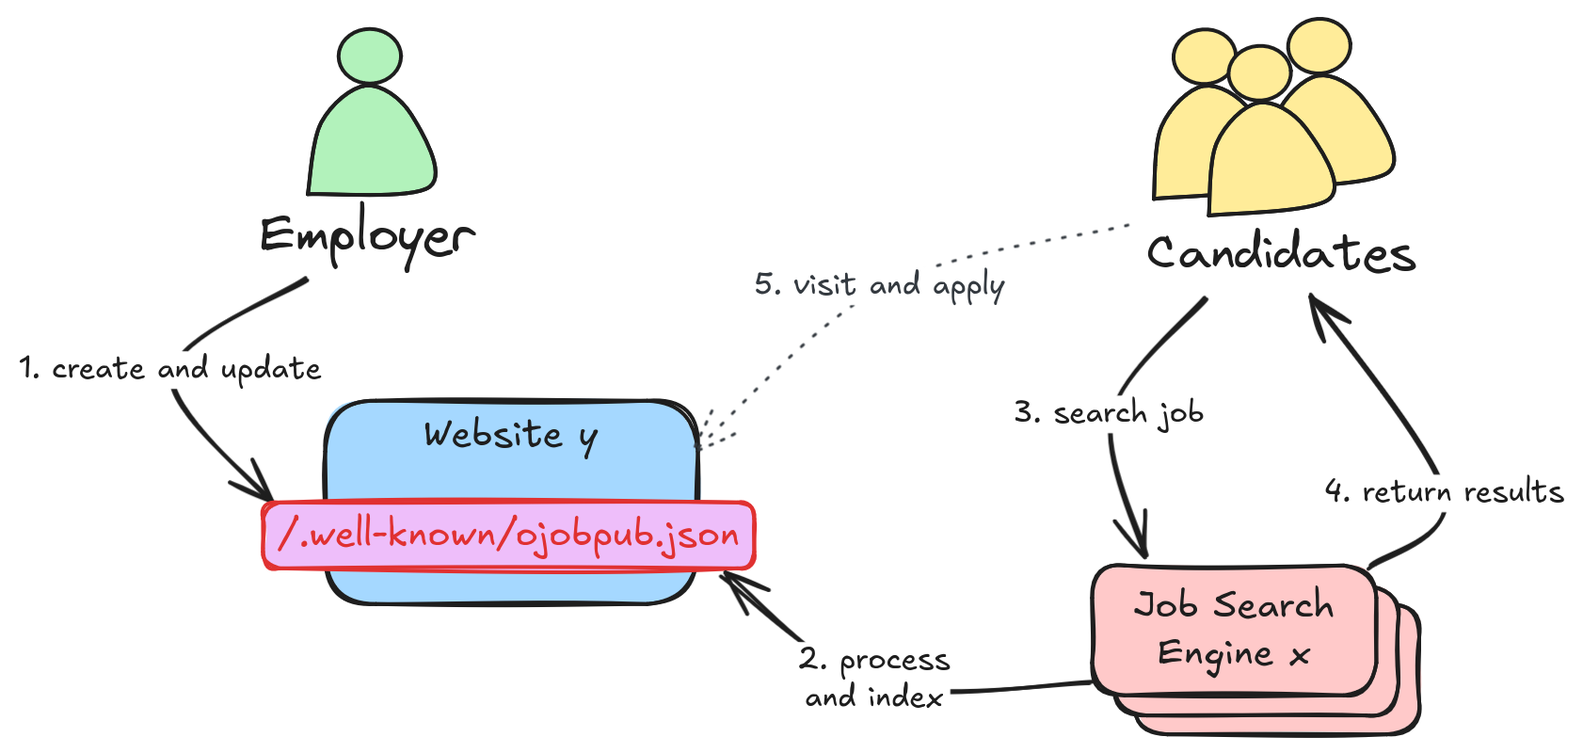
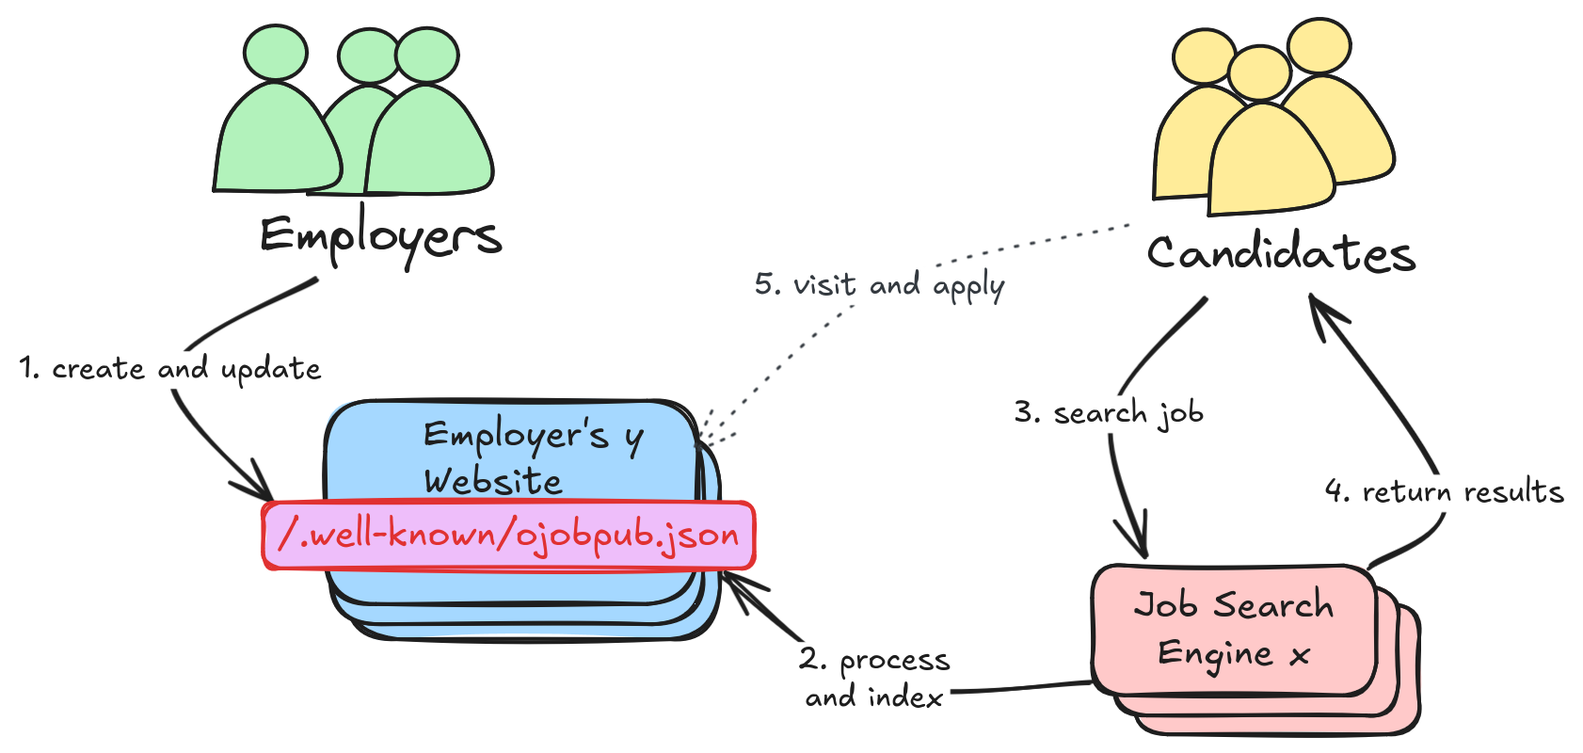
deploy: 2ba3992a190272406d6f7cc4e5d4323d97348211

diff --git a/index.html b/index.html
@@ -1,1 +1,1 @@
-<!doctype html><html lang=en class=no-js> <head><meta charset=utf-8><meta name=viewport content="width=device-width,initial-scale=1"><link href=why/ rel=next><link rel=icon href=assets/images/favicon.png><meta name=generator content="mkdocs-1.6.1, mkdocs-material-9.6.18"><title>oJobPub - Open Job Publishing Initiative</title><link rel=stylesheet href=assets/stylesheets/main.7e37652d.min.css><link rel=stylesheet href=assets/stylesheets/palette.06af60db.min.css><link rel=stylesheet href=stylesheets/extra.css><script>__md_scope=new URL(".",location),__md_hash=e=>[...e].reduce(((e,_)=>(e<<5)-e+_.charCodeAt(0)),0),__md_get=(e,_=localStorage,t=__md_scope)=>JSON.parse(_.getItem(t.pathname+"."+e)),__md_set=(e,_,t=localStorage,a=__md_scope)=>{try{t.setItem(a.pathname+"."+e,JSON.stringify(_))}catch(e){}}</script></head> <body dir=ltr data-md-color-scheme=default data-md-color-primary=indigo data-md-color-accent=indigo> <input class=md-toggle data-md-toggle=drawer type=checkbox id=__drawer autocomplete=off> <input class=md-toggle data-md-toggle=search type=checkbox id=__search autocomplete=off> <label class=md-overlay for=__drawer></label> <div data-md-component=skip> <a href=#about-ojobpub class=md-skip> Skip to content </a> </div> <div data-md-component=announce> </div> <header class=md-header data-md-component=header> <nav class="md-header__inner md-grid" aria-label=Header> <a href=. title="oJobPub - Open Job Publishing Initiative" class="md-header__button md-logo" aria-label="oJobPub - Open Job Publishing Initiative" data-md-component=logo> <img src=static/logo.png alt=logo> </a> <label class="md-header__button md-icon" for=__drawer> <svg xmlns=http://www.w3.org/2000/svg viewbox="0 0 24 24"><path d="M3 6h18v2H3zm0 5h18v2H3zm0 5h18v2H3z"/></svg> </label> <div class=md-header__title data-md-component=header-title> <div class=md-header__ellipsis> <div class=md-header__topic> <span class=md-ellipsis> oJobPub - Open Job Publishing Initiative </span> </div> <div class=md-header__topic data-md-component=header-topic> <span class=md-ellipsis> Intro </span> </div> </div> </div> <form class=md-header__option data-md-component=palette> <input class=md-option data-md-color-media=(prefers-color-scheme) data-md-color-scheme=default data-md-color-primary=indigo data-md-color-accent=indigo aria-label="Switch to light mode" type=radio name=__palette id=__palette_0> <label class="md-header__button md-icon" title="Switch to light mode" for=__palette_1 hidden> <svg xmlns=http://www.w3.org/2000/svg viewbox="0 0 24 24"><path d="m14.3 16-.7-2h-3.2l-.7 2H7.8L11 7h2l3.2 9zM20 8.69V4h-4.69L12 .69 8.69 4H4v4.69L.69 12 4 15.31V20h4.69L12 23.31 15.31 20H20v-4.69L23.31 12zm-9.15 3.96h2.3L12 9z"/></svg> </label> <input class=md-option data-md-color-media="(prefers-color-scheme: light)" data-md-color-scheme=default data-md-color-primary=white data-md-color-accent=indigo aria-label="Switch to dark mode" type=radio name=__palette id=__palette_1> <label class="md-header__button md-icon" title="Switch to dark mode" for=__palette_2 hidden> <svg xmlns=http://www.w3.org/2000/svg viewbox="0 0 24 24"><path d="M12 8a4 4 0 0 0-4 4 4 4 0 0 0 4 4 4 4 0 0 0 4-4 4 4 0 0 0-4-4m0 10a6 6 0 0 1-6-6 6 6 0 0 1 6-6 6 6 0 0 1 6 6 6 6 0 0 1-6 6m8-9.31V4h-4.69L12 .69 8.69 4H4v4.69L.69 12 4 15.31V20h4.69L12 23.31 15.31 20H20v-4.69L23.31 12z"/></svg> </label> <input class=md-option data-md-color-media="(prefers-color-scheme: dark)" data-md-color-scheme=slate data-md-color-primary=black data-md-color-accent=indigo aria-label="Switch to light mode" type=radio name=__palette id=__palette_2> <label class="md-header__button md-icon" title="Switch to light mode" for=__palette_0 hidden> <svg xmlns=http://www.w3.org/2000/svg viewbox="0 0 24 24"><path d="M12 18c-.89 0-1.74-.2-2.5-.55C11.56 16.5 13 14.42 13 12s-1.44-4.5-3.5-5.45C10.26 6.2 11.11 6 12 6a6 6 0 0 1 6 6 6 6 0 0 1-6 6m8-9.31V4h-4.69L12 .69 8.69 4H4v4.69L.69 12 4 15.31V20h4.69L12 23.31 15.31 20H20v-4.69L23.31 12z"/></svg> </label> </form> <script>var palette=__md_get("__palette");if(palette&&palette.color){if("(prefers-color-scheme)"===palette.color.media){var media=matchMedia("(prefers-color-scheme: light)"),input=document.querySelector(media.matches?"[data-md-color-media='(prefers-color-scheme: light)']":"[data-md-color-media='(prefers-color-scheme: dark)']");palette.color.media=input.getAttribute("data-md-color-media"),palette.color.scheme=input.getAttribute("data-md-color-scheme"),palette.color.primary=input.getAttribute("data-md-color-primary"),palette.color.accent=input.getAttribute("data-md-color-accent")}for(var[key,value]of Object.entries(palette.color))document.body.setAttribute("data-md-color-"+key,value)}</script> <label class="md-header__button md-icon" for=__search> <svg xmlns=http://www.w3.org/2000/svg viewbox="0 0 24 24"><path d="M9.5 3A6.5 6.5 0 0 1 16 9.5c0 1.61-.59 3.09-1.56 4.23l.27.27h.79l5 5-1.5 1.5-5-5v-.79l-.27-.27A6.52 6.52 0 0 1 9.5 16 6.5 6.5 0 0 1 3 9.5 6.5 6.5 0 0 1 9.5 3m0 2C7 5 5 7 5 9.5S7 14 9.5 14 14 12 14 9.5 12 5 9.5 5"/></svg> </label> <div class=md-search data-md-component=search role=dialog> <label class=md-search__overlay for=__search></label> <div class=md-search__inner role=search> <form class=md-search__form name=search> <input type=text class=md-search__input name=query aria-label=Search placeholder=Search autocapitalize=off autocorrect=off autocomplete=off spellcheck=false data-md-component=search-query required> <label class="md-search__icon md-icon" for=__search> <svg xmlns=http://www.w3.org/2000/svg viewbox="0 0 24 24"><path d="M9.5 3A6.5 6.5 0 0 1 16 9.5c0 1.61-.59 3.09-1.56 4.23l.27.27h.79l5 5-1.5 1.5-5-5v-.79l-.27-.27A6.52 6.52 0 0 1 9.5 16 6.5 6.5 0 0 1 3 9.5 6.5 6.5 0 0 1 9.5 3m0 2C7 5 5 7 5 9.5S7 14 9.5 14 14 12 14 9.5 12 5 9.5 5"/></svg> <svg xmlns=http://www.w3.org/2000/svg viewbox="0 0 24 24"><path d="M20 11v2H8l5.5 5.5-1.42 1.42L4.16 12l7.92-7.92L13.5 5.5 8 11z"/></svg> </label> <nav class=md-search__options aria-label=Search> <button type=reset class="md-search__icon md-icon" title=Clear aria-label=Clear tabindex=-1> <svg xmlns=http://www.w3.org/2000/svg viewbox="0 0 24 24"><path d="M19 6.41 17.59 5 12 10.59 6.41 5 5 6.41 10.59 12 5 17.59 6.41 19 12 13.41 17.59 19 19 17.59 13.41 12z"/></svg> </button> </nav> </form> <div class=md-search__output> <div class=md-search__scrollwrap tabindex=0 data-md-scrollfix> <div class=md-search-result data-md-component=search-result> <div class=md-search-result__meta> Initializing search </div> <ol class=md-search-result__list role=presentation></ol> </div> </div> </div> </div> </div> </nav> </header> <div class=md-container data-md-component=container> <nav class=md-tabs aria-label=Tabs data-md-component=tabs> <div class=md-grid> <ul class=md-tabs__list> <li class="md-tabs__item md-tabs__item--active"> <a href=. class=md-tabs__link> Intro </a> </li> <li class=md-tabs__item> <a href=why/ class=md-tabs__link> Why </a> </li> <li class=md-tabs__item> <a href=solution/ class=md-tabs__link> Solution </a> </li> <li class=md-tabs__item> <a href=how/ class=md-tabs__link> How </a> </li> <li class=md-tabs__item> <a href=faq/ class=md-tabs__link> FAQ </a> </li> <li class=md-tabs__item> <a href=project/ class=md-tabs__link> About </a> </li> </ul> </div> </nav> <main class=md-main data-md-component=main> <div class="md-main__inner md-grid"> <div class="md-sidebar md-sidebar--primary" data-md-component=sidebar data-md-type=navigation> <div class=md-sidebar__scrollwrap> <div class=md-sidebar__inner> <nav class="md-nav md-nav--primary md-nav--lifted" aria-label=Navigation data-md-level=0> <label class=md-nav__title for=__drawer> <a href=. title="oJobPub - Open Job Publishing Initiative" class="md-nav__button md-logo" aria-label="oJobPub - Open Job Publishing Initiative" data-md-component=logo> <img src=static/logo.png alt=logo> </a> oJobPub - Open Job Publishing Initiative </label> <ul class=md-nav__list data-md-scrollfix> <li class="md-nav__item md-nav__item--active"> <input class="md-nav__toggle md-toggle" type=checkbox id=__toc> <label class="md-nav__link md-nav__link--active" for=__toc> <span class=md-ellipsis> Intro </span> <span class="md-nav__icon md-icon"></span> </label> <a href=. class="md-nav__link md-nav__link--active"> <span class=md-ellipsis> Intro </span> </a> <nav class="md-nav md-nav--secondary" aria-label="Table of contents"> <label class=md-nav__title for=__toc> <span class="md-nav__icon md-icon"></span> Table of contents </label> <ul class=md-nav__list data-md-component=toc data-md-scrollfix> <li class=md-nav__item> <a href=#benfits class=md-nav__link> <span class=md-ellipsis> Benfits </span> </a> </li> </ul> </nav> </li> <li class=md-nav__item> <a href=why/ class=md-nav__link> <span class=md-ellipsis> Why </span> </a> </li> <li class=md-nav__item> <a href=solution/ class=md-nav__link> <span class=md-ellipsis> Solution </span> </a> </li> <li class="md-nav__item md-nav__item--nested"> <input class="md-nav__toggle md-toggle " type=checkbox id=__nav_4> <label class=md-nav__link for=__nav_4 id=__nav_4_label tabindex=0> <span class=md-ellipsis> How </span> <span class="md-nav__icon md-icon"></span> </label> <nav class=md-nav data-md-level=1 aria-labelledby=__nav_4_label aria-expanded=false> <label class=md-nav__title for=__nav_4> <span class="md-nav__icon md-icon"></span> How </label> <ul class=md-nav__list data-md-scrollfix> <li class=md-nav__item> <a href=how/ class=md-nav__link> <span class=md-ellipsis> Overview </span> </a> </li> <li class=md-nav__item> <a href=how/ojobpub-format/ class=md-nav__link> <span class=md-ellipsis> ojobpub.json </span> </a> </li> </ul> </nav> </li> <li class=md-nav__item> <a href=faq/ class=md-nav__link> <span class=md-ellipsis> FAQ </span> </a> </li> <li class=md-nav__item> <a href=project/ class=md-nav__link> <span class=md-ellipsis> About </span> </a> </li> </ul> </nav> </div> </div> </div> <div class="md-sidebar md-sidebar--secondary" data-md-component=sidebar data-md-type=toc> <div class=md-sidebar__scrollwrap> <div class=md-sidebar__inner> <nav class="md-nav md-nav--secondary" aria-label="Table of contents"> <label class=md-nav__title for=__toc> <span class="md-nav__icon md-icon"></span> Table of contents </label> <ul class=md-nav__list data-md-component=toc data-md-scrollfix> <li class=md-nav__item> <a href=#benfits class=md-nav__link> <span class=md-ellipsis> Benfits </span> </a> </li> </ul> </nav> </div> </div> </div> <div class=md-content data-md-component=content> <article class="md-content__inner md-typeset"> <h1 id=about-ojobpub>About oJobPub</h1> <p>oJobPub is an initiative with the goal, to create a free, simlified, optimized and efficient process to publish and collect open job positions and vacancies.</p> <h2 id=benfits>Benfits</h2> <ul class=task-list> <li class=task-list-item><label class=task-list-control><input type=checkbox disabled checked><span class=task-list-indicator></span></label> <strong>Efficient</strong>: Employers manage open job positions in one place.</li> <li class=task-list-item><label class=task-list-control><input type=checkbox disabled checked><span class=task-list-indicator></span></label> <strong>Optimized</strong>: Search engines know where to look and get structured data.</li> <li class=task-list-item><label class=task-list-control><input type=checkbox disabled checked><span class=task-list-indicator></span></label> <strong>Reliable</strong>: Candidates find current job openings more reliable.</li> <li class=task-list-item><label class=task-list-control><input type=checkbox disabled checked><span class=task-list-indicator></span></label> <strong>In Control</strong>: Employers keep control of their data and application process.</li> <li class=task-list-item><label class=task-list-control><input type=checkbox disabled checked><span class=task-list-indicator></span></label> <strong>No additional costs</strong> beyond what employers already payed for domain and web hosting.</li> </ul> </article> </div> <script>var target=document.getElementById(location.hash.slice(1));target&&target.name&&(target.checked=target.name.startsWith("__tabbed_"))</script> </div> </main> <footer class=md-footer> <div class="md-footer-meta md-typeset"> <div class="md-footer-meta__inner md-grid"> <div class=md-copyright> <div class=md-copyright__highlight> oJobPub.org © 2025 </div> Made with <a href=https://squidfunk.github.io/mkdocs-material/ target=_blank rel=noopener> Material for MkDocs </a> </div> <div class=md-social> <a href=https://github.com/ojobpub/docs target=_blank rel=noopener title=github.com class=md-social__link> <svg xmlns=http://www.w3.org/2000/svg viewbox="0 0 512 512"><!-- Font Awesome Free 7.0.0 by @fontawesome - https://fontawesome.com License - https://fontawesome.com/license/free (Icons: CC BY 4.0, Fonts: SIL OFL 1.1, Code: MIT License) Copyright 2025 Fonticons, Inc.--><path fill=currentColor d="M173.9 397.4c0 2-2.3 3.6-5.2 3.6-3.3.3-5.6-1.3-5.6-3.6 0-2 2.3-3.6 5.2-3.6 3-.3 5.6 1.3 5.6 3.6m-31.1-4.5c-.7 2 1.3 4.3 4.3 4.9 2.6 1 5.6 0 6.2-2s-1.3-4.3-4.3-5.2c-2.6-.7-5.5.3-6.2 2.3m44.2-1.7c-2.9.7-4.9 2.6-4.6 4.9.3 2 2.9 3.3 5.9 2.6 2.9-.7 4.9-2.6 4.6-4.6-.3-1.9-3-3.2-5.9-2.9M252.8 8C114.1 8 8 113.3 8 252c0 110.9 69.8 205.8 169.5 239.2 12.8 2.3 17.3-5.6 17.3-12.1 0-6.2-.3-40.4-.3-61.4 0 0-70 15-84.7-29.8 0 0-11.4-29.1-27.8-36.6 0 0-22.9-15.7 1.6-15.4 0 0 24.9 2 38.6 25.8 21.9 38.6 58.6 27.5 72.9 20.9 2.3-16 8.8-27.1 16-33.7-55.9-6.2-112.3-14.3-112.3-110.5 0-27.5 7.6-41.3 23.6-58.9-2.6-6.5-11.1-33.3 2.6-67.9 20.9-6.5 69 27 69 27 20-5.6 41.5-8.5 62.8-8.5s42.8 2.9 62.8 8.5c0 0 48.1-33.6 69-27 13.7 34.7 5.2 61.4 2.6 67.9 16 17.7 25.8 31.5 25.8 58.9 0 96.5-58.9 104.2-114.8 110.5 9.2 7.9 17 22.9 17 46.4 0 33.7-.3 75.4-.3 83.6 0 6.5 4.6 14.4 17.3 12.1C436.2 457.8 504 362.9 504 252 504 113.3 391.5 8 252.8 8M105.2 352.9c-1.3 1-1 3.3.7 5.2 1.6 1.6 3.9 2.3 5.2 1 1.3-1 1-3.3-.7-5.2-1.6-1.6-3.9-2.3-5.2-1m-10.8-8.1c-.7 1.3.3 2.9 2.3 3.9 1.6 1 3.6.7 4.3-.7.7-1.3-.3-2.9-2.3-3.9-2-.6-3.6-.3-4.3.7m32.4 35.6c-1.6 1.3-1 4.3 1.3 6.2 2.3 2.3 5.2 2.6 6.5 1 1.3-1.3.7-4.3-1.3-6.2-2.2-2.3-5.2-2.6-6.5-1m-11.4-14.7c-1.6 1-1.6 3.6 0 5.9s4.3 3.3 5.6 2.3c1.6-1.3 1.6-3.9 0-6.2-1.4-2.3-4-3.3-5.6-2"/></svg> </a> </div> </div> </div> </footer> </div> <div class=md-dialog data-md-component=dialog> <div class="md-dialog__inner md-typeset"></div> </div> <script id=__config type=application/json>{"base": ".", "features": ["navigation.tabs"], "search": "assets/javascripts/workers/search.973d3a69.min.js", "tags": null, "translations": {"clipboard.copied": "Copied to clipboard", "clipboard.copy": "Copy to clipboard", "search.result.more.one": "1 more on this page", "search.result.more.other": "# more on this page", "search.result.none": "No matching documents", "search.result.one": "1 matching document", "search.result.other": "# matching documents", "search.result.placeholder": "Type to start searching", "search.result.term.missing": "Missing", "select.version": "Select version"}, "version": null}</script> <script src=assets/javascripts/bundle.92b07e13.min.js></script> </body> </html>
+<!doctype html><html lang=en class=no-js> <head><meta charset=utf-8><meta name=viewport content="width=device-width,initial-scale=1"><link href=why/ rel=next><link rel=icon href=assets/images/favicon.png><meta name=generator content="mkdocs-1.6.1, mkdocs-material-9.6.18"><title>oJobPub - Open Job Publishing Initiative</title><link rel=stylesheet href=assets/stylesheets/main.7e37652d.min.css><link rel=stylesheet href=assets/stylesheets/palette.06af60db.min.css><link rel=stylesheet href=stylesheets/extra.css><script>__md_scope=new URL(".",location),__md_hash=e=>[...e].reduce(((e,_)=>(e<<5)-e+_.charCodeAt(0)),0),__md_get=(e,_=localStorage,t=__md_scope)=>JSON.parse(_.getItem(t.pathname+"."+e)),__md_set=(e,_,t=localStorage,a=__md_scope)=>{try{t.setItem(a.pathname+"."+e,JSON.stringify(_))}catch(e){}}</script></head> <body dir=ltr data-md-color-scheme=default data-md-color-primary=indigo data-md-color-accent=indigo> <input class=md-toggle data-md-toggle=drawer type=checkbox id=__drawer autocomplete=off> <input class=md-toggle data-md-toggle=search type=checkbox id=__search autocomplete=off> <label class=md-overlay for=__drawer></label> <div data-md-component=skip> <a href=#about-ojobpub class=md-skip> Skip to content </a> </div> <div data-md-component=announce> </div> <header class=md-header data-md-component=header> <nav class="md-header__inner md-grid" aria-label=Header> <a href=. title="oJobPub - Open Job Publishing Initiative" class="md-header__button md-logo" aria-label="oJobPub - Open Job Publishing Initiative" data-md-component=logo> <img src=static/logo.png alt=logo> </a> <label class="md-header__button md-icon" for=__drawer> <svg xmlns=http://www.w3.org/2000/svg viewbox="0 0 24 24"><path d="M3 6h18v2H3zm0 5h18v2H3zm0 5h18v2H3z"/></svg> </label> <div class=md-header__title data-md-component=header-title> <div class=md-header__ellipsis> <div class=md-header__topic> <span class=md-ellipsis> oJobPub - Open Job Publishing Initiative </span> </div> <div class=md-header__topic data-md-component=header-topic> <span class=md-ellipsis> Intro </span> </div> </div> </div> <form class=md-header__option data-md-component=palette> <input class=md-option data-md-color-media=(prefers-color-scheme) data-md-color-scheme=default data-md-color-primary=indigo data-md-color-accent=indigo aria-label="Switch to light mode" type=radio name=__palette id=__palette_0> <label class="md-header__button md-icon" title="Switch to light mode" for=__palette_1 hidden> <svg xmlns=http://www.w3.org/2000/svg viewbox="0 0 24 24"><path d="m14.3 16-.7-2h-3.2l-.7 2H7.8L11 7h2l3.2 9zM20 8.69V4h-4.69L12 .69 8.69 4H4v4.69L.69 12 4 15.31V20h4.69L12 23.31 15.31 20H20v-4.69L23.31 12zm-9.15 3.96h2.3L12 9z"/></svg> </label> <input class=md-option data-md-color-media="(prefers-color-scheme: light)" data-md-color-scheme=default data-md-color-primary=white data-md-color-accent=indigo aria-label="Switch to dark mode" type=radio name=__palette id=__palette_1> <label class="md-header__button md-icon" title="Switch to dark mode" for=__palette_2 hidden> <svg xmlns=http://www.w3.org/2000/svg viewbox="0 0 24 24"><path d="M12 8a4 4 0 0 0-4 4 4 4 0 0 0 4 4 4 4 0 0 0 4-4 4 4 0 0 0-4-4m0 10a6 6 0 0 1-6-6 6 6 0 0 1 6-6 6 6 0 0 1 6 6 6 6 0 0 1-6 6m8-9.31V4h-4.69L12 .69 8.69 4H4v4.69L.69 12 4 15.31V20h4.69L12 23.31 15.31 20H20v-4.69L23.31 12z"/></svg> </label> <input class=md-option data-md-color-media="(prefers-color-scheme: dark)" data-md-color-scheme=slate data-md-color-primary=black data-md-color-accent=indigo aria-label="Switch to light mode" type=radio name=__palette id=__palette_2> <label class="md-header__button md-icon" title="Switch to light mode" for=__palette_0 hidden> <svg xmlns=http://www.w3.org/2000/svg viewbox="0 0 24 24"><path d="M12 18c-.89 0-1.74-.2-2.5-.55C11.56 16.5 13 14.42 13 12s-1.44-4.5-3.5-5.45C10.26 6.2 11.11 6 12 6a6 6 0 0 1 6 6 6 6 0 0 1-6 6m8-9.31V4h-4.69L12 .69 8.69 4H4v4.69L.69 12 4 15.31V20h4.69L12 23.31 15.31 20H20v-4.69L23.31 12z"/></svg> </label> </form> <script>var palette=__md_get("__palette");if(palette&&palette.color){if("(prefers-color-scheme)"===palette.color.media){var media=matchMedia("(prefers-color-scheme: light)"),input=document.querySelector(media.matches?"[data-md-color-media='(prefers-color-scheme: light)']":"[data-md-color-media='(prefers-color-scheme: dark)']");palette.color.media=input.getAttribute("data-md-color-media"),palette.color.scheme=input.getAttribute("data-md-color-scheme"),palette.color.primary=input.getAttribute("data-md-color-primary"),palette.color.accent=input.getAttribute("data-md-color-accent")}for(var[key,value]of Object.entries(palette.color))document.body.setAttribute("data-md-color-"+key,value)}</script> <label class="md-header__button md-icon" for=__search> <svg xmlns=http://www.w3.org/2000/svg viewbox="0 0 24 24"><path d="M9.5 3A6.5 6.5 0 0 1 16 9.5c0 1.61-.59 3.09-1.56 4.23l.27.27h.79l5 5-1.5 1.5-5-5v-.79l-.27-.27A6.52 6.52 0 0 1 9.5 16 6.5 6.5 0 0 1 3 9.5 6.5 6.5 0 0 1 9.5 3m0 2C7 5 5 7 5 9.5S7 14 9.5 14 14 12 14 9.5 12 5 9.5 5"/></svg> </label> <div class=md-search data-md-component=search role=dialog> <label class=md-search__overlay for=__search></label> <div class=md-search__inner role=search> <form class=md-search__form name=search> <input type=text class=md-search__input name=query aria-label=Search placeholder=Search autocapitalize=off autocorrect=off autocomplete=off spellcheck=false data-md-component=search-query required> <label class="md-search__icon md-icon" for=__search> <svg xmlns=http://www.w3.org/2000/svg viewbox="0 0 24 24"><path d="M9.5 3A6.5 6.5 0 0 1 16 9.5c0 1.61-.59 3.09-1.56 4.23l.27.27h.79l5 5-1.5 1.5-5-5v-.79l-.27-.27A6.52 6.52 0 0 1 9.5 16 6.5 6.5 0 0 1 3 9.5 6.5 6.5 0 0 1 9.5 3m0 2C7 5 5 7 5 9.5S7 14 9.5 14 14 12 14 9.5 12 5 9.5 5"/></svg> <svg xmlns=http://www.w3.org/2000/svg viewbox="0 0 24 24"><path d="M20 11v2H8l5.5 5.5-1.42 1.42L4.16 12l7.92-7.92L13.5 5.5 8 11z"/></svg> </label> <nav class=md-search__options aria-label=Search> <button type=reset class="md-search__icon md-icon" title=Clear aria-label=Clear tabindex=-1> <svg xmlns=http://www.w3.org/2000/svg viewbox="0 0 24 24"><path d="M19 6.41 17.59 5 12 10.59 6.41 5 5 6.41 10.59 12 5 17.59 6.41 19 12 13.41 17.59 19 19 17.59 13.41 12z"/></svg> </button> </nav> </form> <div class=md-search__output> <div class=md-search__scrollwrap tabindex=0 data-md-scrollfix> <div class=md-search-result data-md-component=search-result> <div class=md-search-result__meta> Initializing search </div> <ol class=md-search-result__list role=presentation></ol> </div> </div> </div> </div> </div> </nav> </header> <div class=md-container data-md-component=container> <nav class=md-tabs aria-label=Tabs data-md-component=tabs> <div class=md-grid> <ul class=md-tabs__list> <li class="md-tabs__item md-tabs__item--active"> <a href=. class=md-tabs__link> Intro </a> </li> <li class=md-tabs__item> <a href=why/ class=md-tabs__link> Why </a> </li> <li class=md-tabs__item> <a href=solution/ class=md-tabs__link> Solution </a> </li> <li class=md-tabs__item> <a href=how/ class=md-tabs__link> How </a> </li> <li class=md-tabs__item> <a href=faq/ class=md-tabs__link> FAQ </a> </li> <li class=md-tabs__item> <a href=project/ class=md-tabs__link> About </a> </li> </ul> </div> </nav> <main class=md-main data-md-component=main> <div class="md-main__inner md-grid"> <div class="md-sidebar md-sidebar--primary" data-md-component=sidebar data-md-type=navigation> <div class=md-sidebar__scrollwrap> <div class=md-sidebar__inner> <nav class="md-nav md-nav--primary md-nav--lifted" aria-label=Navigation data-md-level=0> <label class=md-nav__title for=__drawer> <a href=. title="oJobPub - Open Job Publishing Initiative" class="md-nav__button md-logo" aria-label="oJobPub - Open Job Publishing Initiative" data-md-component=logo> <img src=static/logo.png alt=logo> </a> oJobPub - Open Job Publishing Initiative </label> <ul class=md-nav__list data-md-scrollfix> <li class="md-nav__item md-nav__item--active"> <input class="md-nav__toggle md-toggle" type=checkbox id=__toc> <label class="md-nav__link md-nav__link--active" for=__toc> <span class=md-ellipsis> Intro </span> <span class="md-nav__icon md-icon"></span> </label> <a href=. class="md-nav__link md-nav__link--active"> <span class=md-ellipsis> Intro </span> </a> <nav class="md-nav md-nav--secondary" aria-label="Table of contents"> <label class=md-nav__title for=__toc> <span class="md-nav__icon md-icon"></span> Table of contents </label> <ul class=md-nav__list data-md-component=toc data-md-scrollfix> <li class=md-nav__item> <a href=#benfits class=md-nav__link> <span class=md-ellipsis> Benfits </span> </a> </li> <li class=md-nav__item> <a href=#no-goals class=md-nav__link> <span class=md-ellipsis> No Goals </span> </a> </li> </ul> </nav> </li> <li class=md-nav__item> <a href=why/ class=md-nav__link> <span class=md-ellipsis> Why </span> </a> </li> <li class=md-nav__item> <a href=solution/ class=md-nav__link> <span class=md-ellipsis> Solution </span> </a> </li> <li class="md-nav__item md-nav__item--nested"> <input class="md-nav__toggle md-toggle " type=checkbox id=__nav_4> <label class=md-nav__link for=__nav_4 id=__nav_4_label tabindex=0> <span class=md-ellipsis> How </span> <span class="md-nav__icon md-icon"></span> </label> <nav class=md-nav data-md-level=1 aria-labelledby=__nav_4_label aria-expanded=false> <label class=md-nav__title for=__nav_4> <span class="md-nav__icon md-icon"></span> How </label> <ul class=md-nav__list data-md-scrollfix> <li class=md-nav__item> <a href=how/ class=md-nav__link> <span class=md-ellipsis> Overview </span> </a> </li> <li class=md-nav__item> <a href=how/ojobpub-format/ class=md-nav__link> <span class=md-ellipsis> ojobpub.json </span> </a> </li> </ul> </nav> </li> <li class=md-nav__item> <a href=faq/ class=md-nav__link> <span class=md-ellipsis> FAQ </span> </a> </li> <li class=md-nav__item> <a href=project/ class=md-nav__link> <span class=md-ellipsis> About </span> </a> </li> </ul> </nav> </div> </div> </div> <div class="md-sidebar md-sidebar--secondary" data-md-component=sidebar data-md-type=toc> <div class=md-sidebar__scrollwrap> <div class=md-sidebar__inner> <nav class="md-nav md-nav--secondary" aria-label="Table of contents"> <label class=md-nav__title for=__toc> <span class="md-nav__icon md-icon"></span> Table of contents </label> <ul class=md-nav__list data-md-component=toc data-md-scrollfix> <li class=md-nav__item> <a href=#benfits class=md-nav__link> <span class=md-ellipsis> Benfits </span> </a> </li> <li class=md-nav__item> <a href=#no-goals class=md-nav__link> <span class=md-ellipsis> No Goals </span> </a> </li> </ul> </nav> </div> </div> </div> <div class=md-content data-md-component=content> <article class="md-content__inner md-typeset"> <h1 id=about-ojobpub>About oJobPub</h1> <p>oJobPub is an initiative with the goal, to create a free, simlified, optimized and efficient process to publish and collect distributed job positions and vacancies.</p> <p><img alt src=static/nutshell.png></p> <h2 id=benfits>Benfits</h2> <ul class=task-list> <li class=task-list-item><label class=task-list-control><input type=checkbox disabled checked><span class=task-list-indicator></span></label> <strong>Efficient</strong>: Employers manage open job positions on their own websites.</li> <li class=task-list-item><label class=task-list-control><input type=checkbox disabled checked><span class=task-list-indicator></span></label> <strong>Optimized</strong>: Search engines collect structured data from a known path from employers websites.</li> <li class=task-list-item><label class=task-list-control><input type=checkbox disabled checked><span class=task-list-indicator></span></label> <strong>Reliable</strong>: Candidates find current vacancies more reliable on many job boards.</li> <li class=task-list-item><label class=task-list-control><input type=checkbox disabled checked><span class=task-list-indicator></span></label> <strong>In Control</strong>: Employers keep control of their data and application process.</li> <li class=task-list-item><label class=task-list-control><input type=checkbox disabled checked><span class=task-list-indicator></span></label> <strong>No additional costs</strong> beyond what employers already pay for domain and web hosting.</li> </ul> <h2 id=no-goals>No Goals</h2> <ul class=task-list> <li class=task-list-item><label class=task-list-control><input type=checkbox disabled><span class=task-list-indicator></span></label> oJobPub is <strong>not</strong> a "another job board".</li> </ul> </article> </div> <script>var target=document.getElementById(location.hash.slice(1));target&&target.name&&(target.checked=target.name.startsWith("__tabbed_"))</script> </div> </main> <footer class=md-footer> <div class="md-footer-meta md-typeset"> <div class="md-footer-meta__inner md-grid"> <div class=md-copyright> <div class=md-copyright__highlight> oJobPub.org © 2025 </div> Made with <a href=https://squidfunk.github.io/mkdocs-material/ target=_blank rel=noopener> Material for MkDocs </a> </div> <div class=md-social> <a href=https://github.com/ojobpub/docs target=_blank rel=noopener title=github.com class=md-social__link> <svg xmlns=http://www.w3.org/2000/svg viewbox="0 0 512 512"><!-- Font Awesome Free 7.0.0 by @fontawesome - https://fontawesome.com License - https://fontawesome.com/license/free (Icons: CC BY 4.0, Fonts: SIL OFL 1.1, Code: MIT License) Copyright 2025 Fonticons, Inc.--><path fill=currentColor d="M173.9 397.4c0 2-2.3 3.6-5.2 3.6-3.3.3-5.6-1.3-5.6-3.6 0-2 2.3-3.6 5.2-3.6 3-.3 5.6 1.3 5.6 3.6m-31.1-4.5c-.7 2 1.3 4.3 4.3 4.9 2.6 1 5.6 0 6.2-2s-1.3-4.3-4.3-5.2c-2.6-.7-5.5.3-6.2 2.3m44.2-1.7c-2.9.7-4.9 2.6-4.6 4.9.3 2 2.9 3.3 5.9 2.6 2.9-.7 4.9-2.6 4.6-4.6-.3-1.9-3-3.2-5.9-2.9M252.8 8C114.1 8 8 113.3 8 252c0 110.9 69.8 205.8 169.5 239.2 12.8 2.3 17.3-5.6 17.3-12.1 0-6.2-.3-40.4-.3-61.4 0 0-70 15-84.7-29.8 0 0-11.4-29.1-27.8-36.6 0 0-22.9-15.7 1.6-15.4 0 0 24.9 2 38.6 25.8 21.9 38.6 58.6 27.5 72.9 20.9 2.3-16 8.8-27.1 16-33.7-55.9-6.2-112.3-14.3-112.3-110.5 0-27.5 7.6-41.3 23.6-58.9-2.6-6.5-11.1-33.3 2.6-67.9 20.9-6.5 69 27 69 27 20-5.6 41.5-8.5 62.8-8.5s42.8 2.9 62.8 8.5c0 0 48.1-33.6 69-27 13.7 34.7 5.2 61.4 2.6 67.9 16 17.7 25.8 31.5 25.8 58.9 0 96.5-58.9 104.2-114.8 110.5 9.2 7.9 17 22.9 17 46.4 0 33.7-.3 75.4-.3 83.6 0 6.5 4.6 14.4 17.3 12.1C436.2 457.8 504 362.9 504 252 504 113.3 391.5 8 252.8 8M105.2 352.9c-1.3 1-1 3.3.7 5.2 1.6 1.6 3.9 2.3 5.2 1 1.3-1 1-3.3-.7-5.2-1.6-1.6-3.9-2.3-5.2-1m-10.8-8.1c-.7 1.3.3 2.9 2.3 3.9 1.6 1 3.6.7 4.3-.7.7-1.3-.3-2.9-2.3-3.9-2-.6-3.6-.3-4.3.7m32.4 35.6c-1.6 1.3-1 4.3 1.3 6.2 2.3 2.3 5.2 2.6 6.5 1 1.3-1.3.7-4.3-1.3-6.2-2.2-2.3-5.2-2.6-6.5-1m-11.4-14.7c-1.6 1-1.6 3.6 0 5.9s4.3 3.3 5.6 2.3c1.6-1.3 1.6-3.9 0-6.2-1.4-2.3-4-3.3-5.6-2"/></svg> </a> </div> </div> </div> </footer> </div> <div class=md-dialog data-md-component=dialog> <div class="md-dialog__inner md-typeset"></div> </div> <script id=__config type=application/json>{"base": ".", "features": ["navigation.tabs"], "search": "assets/javascripts/workers/search.973d3a69.min.js", "tags": null, "translations": {"clipboard.copied": "Copied to clipboard", "clipboard.copy": "Copy to clipboard", "search.result.more.one": "1 more on this page", "search.result.more.other": "# more on this page", "search.result.none": "No matching documents", "search.result.one": "1 matching document", "search.result.other": "# matching documents", "search.result.placeholder": "Type to start searching", "search.result.term.missing": "Missing", "select.version": "Select version"}, "version": null}</script> <script src=assets/javascripts/bundle.92b07e13.min.js></script> </body> </html>
